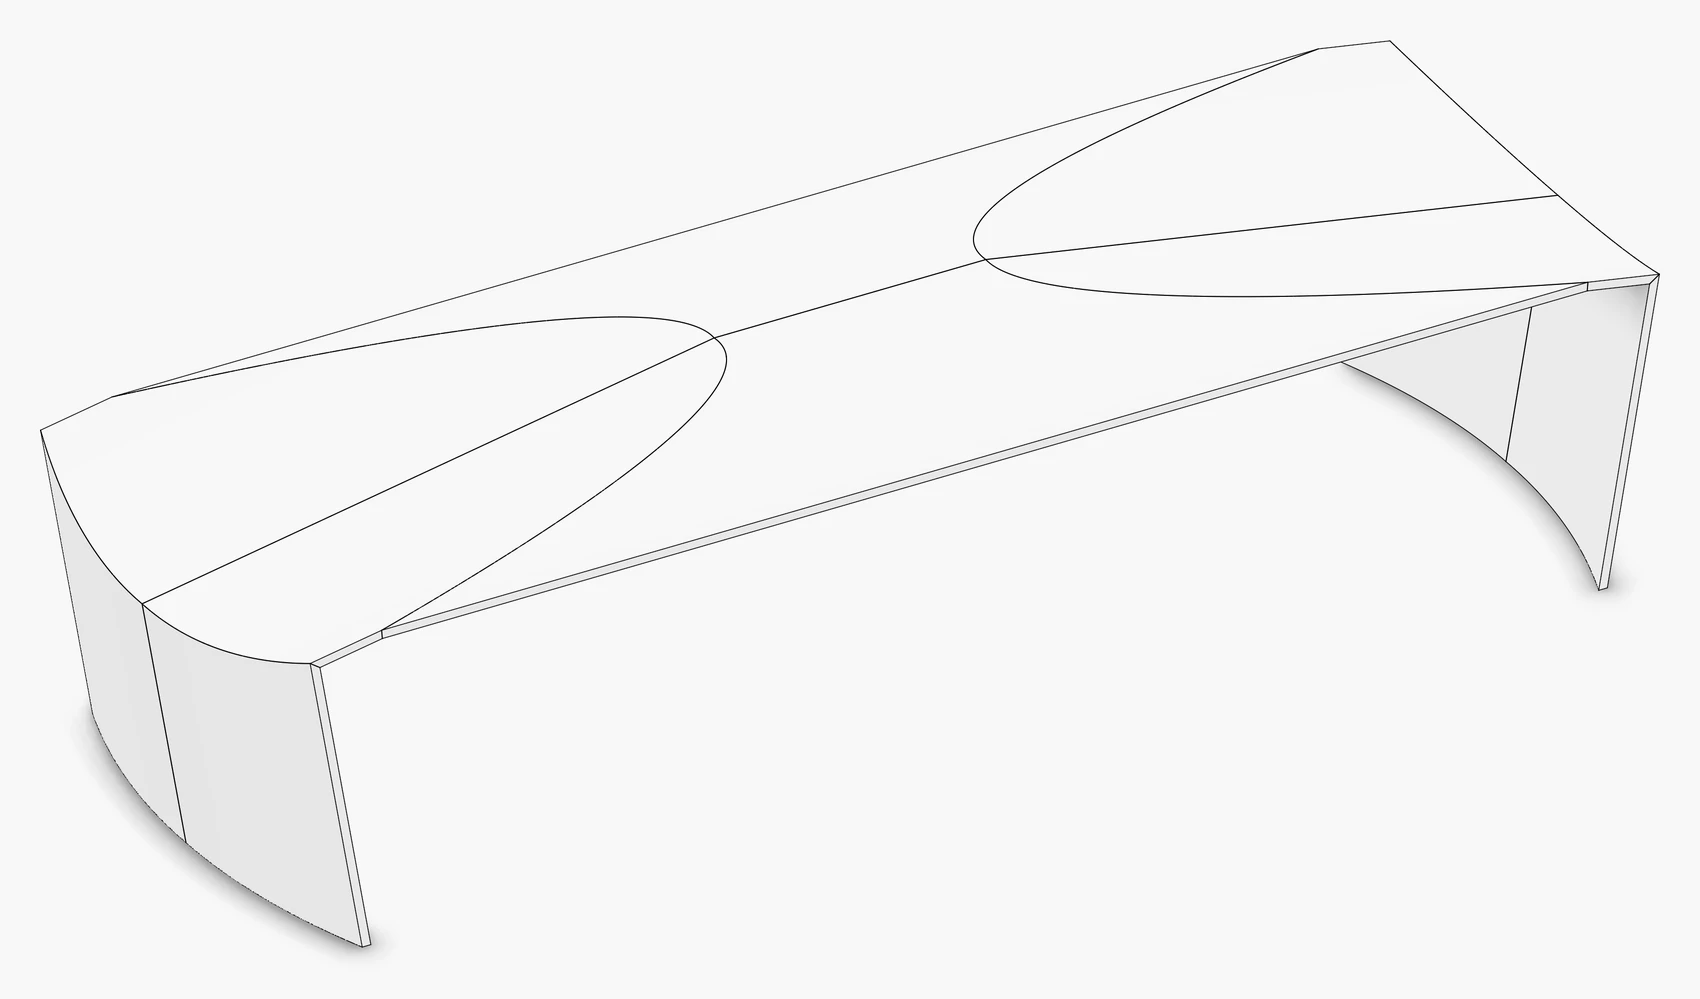
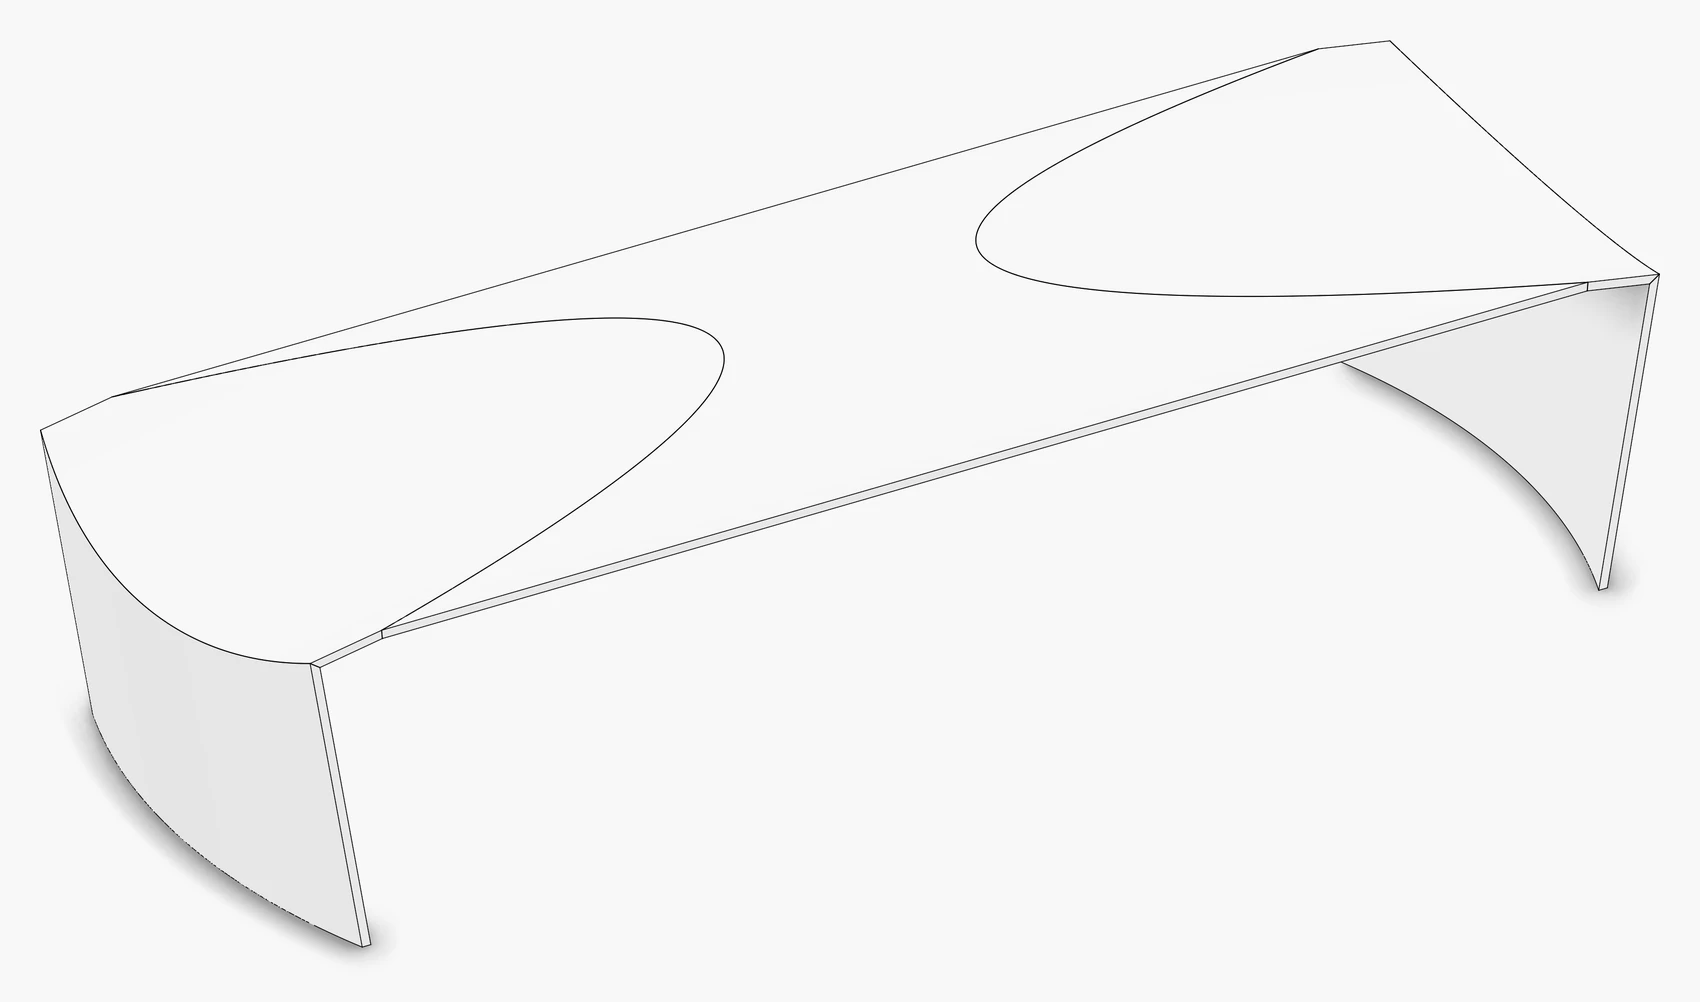
wood: Mendrisio pavilion of five curved plates - the barrel one arc, no crown seam: wall, trough, middle, trough, wall, four contacts on the creases

diff --git a/examples/templates_curved_folding_4_mendrisio_pavilion.cpp b/examples/templates_curved_folding_4_mendrisio_pavilion.cpp
@@ -4,12 +4,13 @@
 using namespace session_cpp;
 using namespace wood_session;
 
-/// The Mendrisio pavilion: one shallow barrel 4.5 m wide, standing as a leaning end wall, reflected at the eave onto a short trough rising 10 degrees and at the ridge crease onto the level middle, one plate per panel across the plane of symmetry at mid-length; 13 m long and 3.4 m high, two panels across the crown seam.
+/// The Mendrisio pavilion: one shallow barrel 4.5 m wide, a leaning end wall reflected at the eave onto a trough rising 10 degrees and at
+/// the ridge onto the level middle, mirrored at mid-length: five curved plates.
 int main() {
 
     const Vector along(0.1719, 0.0, 0.9851);
     ReflectionFold fold(
-        {Primitives::arc(Point(6000.0, -2250.0, 0.0), Point(6304.0, -1125.0, 0.0), Point(6400.0, 0.0, 0.0)), Primitives::arc(Point(6400.0, 0.0, 0.0), Point(6304.0, 1125.0, 0.0), Point(6000.0, 2250.0, 0.0))},
+        {Primitives::arc(Point(6000.0, -2250.0, 0.0), Point(6400.0, 0.0, 0.0), Point(6000.0, 2250.0, 0.0))},
         along,
         Vector(0.0, -1.0, 0.0),
         12000.0,
@@ -32,7 +33,7 @@ int main() {
 
 /*
 |||||||| DESCRIPTION ||||||||
-Step 4 of the curved folding templates: the Mendrisio pavilion of IBOIS, 13.0 m long at the top and 12.0 m along the floor, 4.5 m wide and 3.4 m high, 77 mm curved cross-laminated timber. One shallow barrel, an arc 4.5 m wide and 400 high split at its crown into two panels, stands on the ground as the end wall 2.9 m high, curved in plan and leaning out, is reflected 89.9 degrees at the eave onto the roof rising 10 degrees, which the reflection turns into a trough, and 700 mm further at the barrel's edges 10 degrees again at the ridge crease onto the level middle, a vault, its rulings crossing the vertical plane of symmetry at mid-length square, so each of its two panels is one plate from ridge crease to ridge crease. The eave crease is the short oval where the wall meets the roof; the ridge crease, which the trough's crown line reaches 4.5 m later than its edges, is the long oval reaching 5 m in from the end with its tip toward the middle, as in the pavilion's top view; the wall's foot is the arc on the ground, its ends and the roof's long edges straight rulings, and the two halves of the barrel meet on the straight crown seam. Every part of the sheet between two creases and two curves of the profile is a lamella, a PlateCurved: the exact cylinder between its two creases, the thickness on the one physical underside the material keeps through every fold, its side faces the mitre it shares with the next plate across the crease, the crease plane's section at a mirror fold and the exact crossing of the two offset cylinders at a reflection, its caps the rulings at the profile curves' ends, mitred between neighbouring curves; every lamella unfolds flat, its development drawn where it lies on the unrolled sheet in the group flat; the session's contact detection finds every shared face. Groups: creases, lamellas (lamella_<segment>_<row>), flat.
+Step 4 of the curved folding templates: the Mendrisio pavilion of IBOIS, 13 m long at the top, 4.5 m wide and 3.4 m high, 77 mm curved cross-laminated timber. One shallow barrel, an arc 4.5 m wide and 400 mm high, stands as the end wall leaning out, is reflected at the eave onto the roof rising 10 degrees, a trough, and 700 mm further at the ridge crease onto the level middle, a vault whose rulings cross the plane of symmetry at mid-length square, so it is one plate from ridge to ridge. Five curved plates, wall, trough, middle, trough, wall, each an exact cylinder, mitred on the four creases. Groups: creases, lamellas, flat.
 
 |||||||| DIRECTORY ||||||||
 cd wood_research/wood

diff --git a/docs/templates/curved_folding.md b/docs/templates/curved_folding.md
@@ -151,15 +151,14 @@ ReflectionFold fold(
 
 ### Mendrisio pavilion {#mendrisio_pavilion}
 
-The Mendrisio pavilion of IBOIS: 13.0 m long at the top and 12.0 m along the floor, 4.5 m wide, 3.4 m high, 77 mm curved cross-laminated timber. One shallow barrel, an arc 4.5 m wide and 400 high split at its crown into two panels, stands on the ground as the end wall, curved in plan and leaning out, is reflected at the eave onto the roof rising 10 degrees, which the reflection turns into a trough, and 700 mm further at the barrel's edges reflected again at the ridge crease onto the level middle, a vault, whose rulings cross the vertical plane of symmetry at mid-length square, so each of its two panels is one plate from ridge crease to ridge crease. The eave crease is the short oval where the wall meets the roof, the ridge crease the long oval reaching 5 m in from the end with its tip toward the middle, since the trough's crown line reaches the ridge plane 4.5 m later than its edges, as in the pavilion's top view; the wall's foot is the arc on the ground, its ends and the roof's long edges straight rulings, and the two halves of the barrel meet on the straight crown seam. 10 lamellas, 13 contacts: eight on the four crease planes, five on the crown seam (example `templates_curved_folding_4_mendrisio_pavilion`).
+The Mendrisio pavilion of IBOIS: 13 m long, 4.5 m wide, 3.4 m high, 77 mm curved cross-laminated timber. One shallow barrel, an arc 4.5 m wide and 400 mm high, stands as the end wall leaning out, is reflected at the eave onto the roof rising 10 degrees, a trough, and at the ridge crease onto the level middle, a vault whose rulings cross the plane of symmetry square, one plate from ridge to ridge. The eave crease is the short oval where the wall meets the roof, the ridge crease the long oval reaching 5 m in from the end. Five plates, four contacts, one per crease (example `templates_curved_folding_4_mendrisio_pavilion`).
 
 ![mendrisio pavilion](templates/templates_curved_folding_4_mendrisio_pavilion_lamellas.webp)
 
 ```cpp
 const Vector along(0.1719, 0.0, 0.9851); // the wall, leaning out 0.5 m over 2.9 m
 ReflectionFold fold(
- {Primitives::arc(Point(6000.0, -2250.0, 0.0), Point(6304.0, -1125.0, 0.0), Point(6400.0, 0.0, 0.0)),
- Primitives::arc(Point(6400.0, 0.0, 0.0), Point(6304.0, 1125.0, 0.0), Point(6000.0, 2250.0, 0.0))},
+ {Primitives::arc(Point(6000.0, -2250.0, 0.0), Point(6400.0, 0.0, 0.0), Point(6000.0, 2250.0, 0.0))},
  along,
  Vector(0.0, -1.0, 0.0),
  12000.0,
